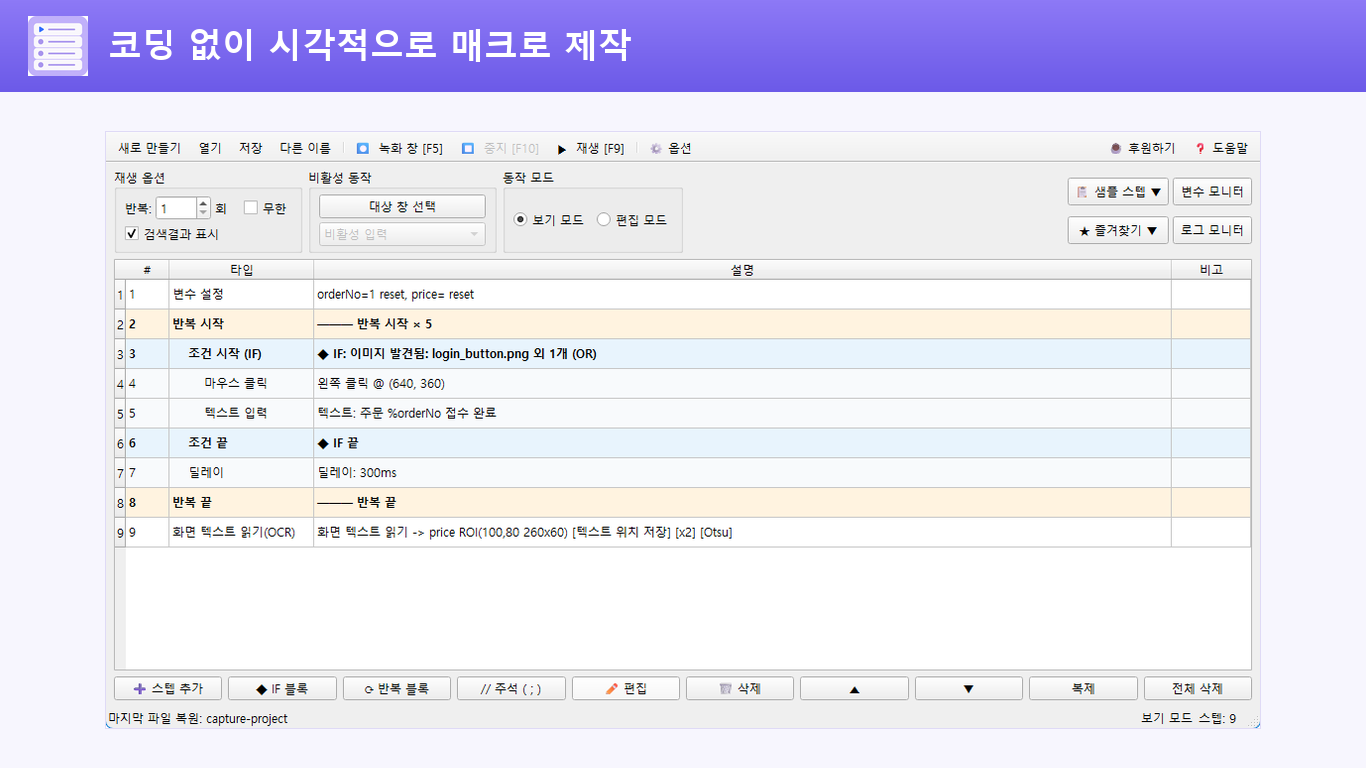
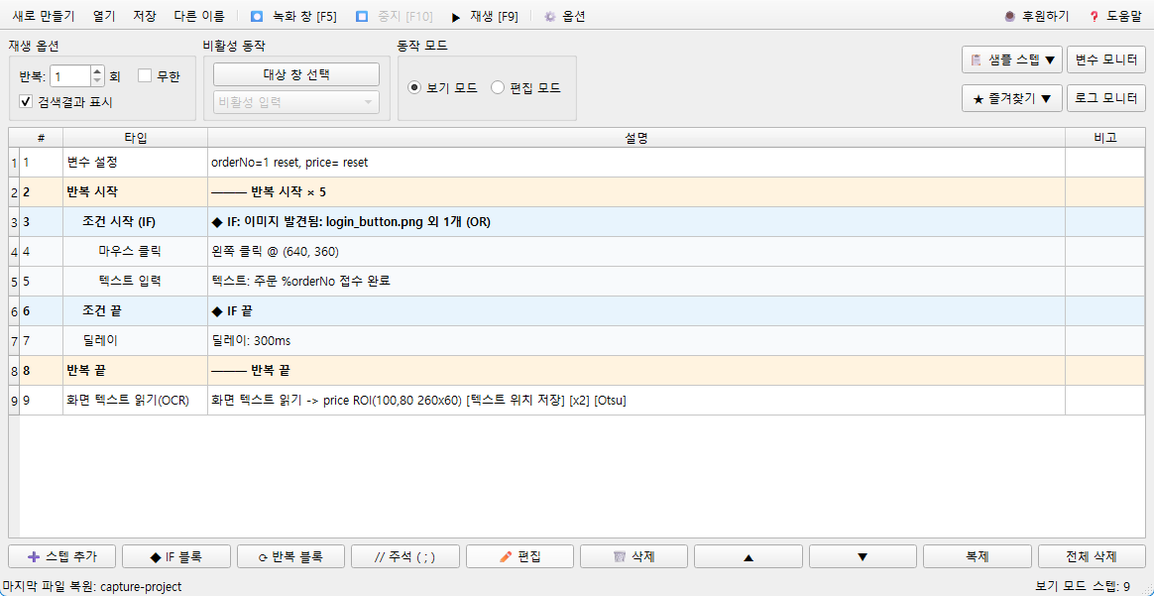
chore: 제품 이미지 배경 통일, 호버 확대, 클릭 라이트박스 및 최신 이미지 반영

diff --git a/index.html b/index.html
@@ -1,4 +1,4 @@
-<!DOCTYPE html><html lang="ko"><head><meta charset="utf-8"><meta http-equiv="Content-Security-Policy" content="default-src 'none'; base-uri 'none'; connect-src 'none'; font-src 'self'; form-action 'none'; frame-src 'none'; img-src 'self' data:; manifest-src 'none'; media-src 'none'; object-src 'none'; script-src 'self' 'sha256-U2uA9hgB6peaBaq9o5SVGQH00iSCfB1BbSsfk6xpqGo='; script-src-attr 'none'; style-src 'self'; style-src-attr 'none'; worker-src 'none'"><meta name="referrer" content="no-referrer"><meta name="google-site-verification" content="OwG5LbzGDYkvqDulqCkbK-_Yn-M28l3_QhQ-glExRZk"><meta name="google-adsense-account" content="ca-pub-2244929162842411"><meta name="viewport" content="width=device-width, initial-scale=1"><meta name="theme-color" id="themeColor" data-theme-light="#faf9f6" data-theme-dark="#181a19" content="#faf9f6"><title>PLCManJP | 현장 엔지니어를 위한 PLC와 자동화 도구</title><meta name="description" content="PLC 점검, 반복 업무 자동화, CAD 라벨 제작, 프로젝트 변환 검토와 현장 계산 도구, 개발자용 공개 소스를 소개합니다."><meta property="og:site_name" content="PLCManJP"><meta property="og:locale" content="ko_KR"><meta property="og:title" content="PLCManJP | 현장 엔지니어를 위한 PLC와 자동화 도구"><meta property="og:description" content="PLC 점검부터 자동화, CAD 라벨 제작과 현장 계산까지. 공개 앱과 웹 도구, 개발자용 자료를 한곳에서 찾아보세요."><meta property="og:type" content="website"><meta property="og:url" content="https://plcmanjp.github.io/"><meta property="og:image" content="https://plcmanjp.github.io/assets/og-home.png"><meta property="og:image:width" content="1200"><meta property="og:image:height" content="630"><meta property="og:image:alt" content="PLCManJP 현장 엔지니어용 실용 도구"><meta name="twitter:card" content="summary_large_image"><link rel="canonical" href="https://plcmanjp.github.io/"><link rel="icon" href="/favicon.svg" type="image/svg+xml"><link rel="icon" href="/favicon-32.png" sizes="32x32" type="image/png"><link rel="apple-touch-icon" href="/apple-touch-icon.png"><script src="/assets/theme-init.js"></script><link rel="stylesheet" href="/assets/home-base.css?v=6f22a1bbef9d"><link rel="stylesheet" href="/assets/home-sections.css?v=3b024eaeb08e"></head>
+<!DOCTYPE html><html lang="ko"><head><meta charset="utf-8"><meta http-equiv="Content-Security-Policy" content="default-src 'none'; base-uri 'none'; connect-src 'none'; font-src 'self'; form-action 'none'; frame-src 'none'; img-src 'self' data:; manifest-src 'none'; media-src 'none'; object-src 'none'; script-src 'self' 'sha256-U2uA9hgB6peaBaq9o5SVGQH00iSCfB1BbSsfk6xpqGo='; script-src-attr 'none'; style-src 'self'; style-src-attr 'none'; worker-src 'none'"><meta name="referrer" content="no-referrer"><meta name="google-site-verification" content="OwG5LbzGDYkvqDulqCkbK-_Yn-M28l3_QhQ-glExRZk"><meta name="google-adsense-account" content="ca-pub-2244929162842411"><meta name="viewport" content="width=device-width, initial-scale=1"><meta name="theme-color" id="themeColor" data-theme-light="#faf9f6" data-theme-dark="#181a19" content="#faf9f6"><title>PLCManJP | 현장 엔지니어를 위한 PLC와 자동화 도구</title><meta name="description" content="PLC 점검, 반복 업무 자동화, CAD 라벨 제작, 프로젝트 변환 검토와 현장 계산 도구, 개발자용 공개 소스를 소개합니다."><meta property="og:site_name" content="PLCManJP"><meta property="og:locale" content="ko_KR"><meta property="og:title" content="PLCManJP | 현장 엔지니어를 위한 PLC와 자동화 도구"><meta property="og:description" content="PLC 점검부터 자동화, CAD 라벨 제작과 현장 계산까지. 공개 앱과 웹 도구, 개발자용 자료를 한곳에서 찾아보세요."><meta property="og:type" content="website"><meta property="og:url" content="https://plcmanjp.github.io/"><meta property="og:image" content="https://plcmanjp.github.io/assets/og-home.png"><meta property="og:image:width" content="1200"><meta property="og:image:height" content="630"><meta property="og:image:alt" content="PLCManJP 현장 엔지니어용 실용 도구"><meta name="twitter:card" content="summary_large_image"><link rel="canonical" href="https://plcmanjp.github.io/"><link rel="icon" href="/favicon.svg" type="image/svg+xml"><link rel="icon" href="/favicon-32.png" sizes="32x32" type="image/png"><link rel="apple-touch-icon" href="/apple-touch-icon.png"><script src="/assets/theme-init.js"></script><link rel="stylesheet" href="/assets/home-base.css?v=6f22a1bbef9d"><link rel="stylesheet" href="/assets/home-sections.css?v=ca56ba8eaeed"></head>
 <body>
 <a class="skip-link" href="#main-content">본문으로 바로가기</a>
 <header class="site-header">
@@ -39,7 +39,9 @@
           <div class="actions"><a class="button" href="https://play.google.com/store/apps/details?id=com.plciocheck.iocheck">Google Play 설치 <span aria-hidden="true">↗</span></a><a class="text-link" href="/plc-io-check-helper/">제품 안내 <span aria-hidden="true">→</span></a></div>
         </div>
         <figure class="product-visual plc-visual">
-          <img class="phone-screen" src="/assets/product-cards/plc-io-check-helper/app-iocheck.png" alt="PLC 업무수첩 실제 IO 체크 화면: 디바이스 주소별 점검 상태와 결과" width="1080" height="2090" fetchpriority="high" decoding="async">
+          <button type="button" class="visual-trigger" data-zoom-src="/assets/product-cards/plc-io-check-helper/app-iocheck.png" data-zoom-caption="PLC 업무수첩의 IO 체크 화면" aria-label="PLC 업무수첩의 IO 체크 화면 크게 보기">
+            <img class="phone-screen" src="/assets/product-cards/plc-io-check-helper/app-iocheck.png" alt="PLC 업무수첩 실제 IO 체크 화면: 디바이스 주소별 점검 상태와 결과" width="1080" height="2090" fetchpriority="high" decoding="async">
+          </button>
           <figcaption>PLC 업무수첩의 IO 체크 화면</figcaption>
         </figure>
       </div>
@@ -55,7 +57,7 @@
           <ul class="feature-list"><li>동작 녹화와 스텝 편집</li><li>조건, 반복, 변수와 포인터</li><li>이미지 검색, OCR, 백그라운드 입력</li></ul>
           <div class="actions"><a class="button" href="https://apps.microsoft.com/detail/9NXX9L2ZW52W">Microsoft Store 설치 <span aria-hidden="true">↗</span></a><a class="text-link" href="/codeless-macro-tool/">제품 안내 <span aria-hidden="true">→</span></a></div>
         </div>
-        <figure class="product-visual macro-visual"><img src="/assets/product-cards/codeless-macro-tool/app-screen-overview.png" alt="Codeless Macro Tool 실제 스텝 편집 화면" width="1366" height="768" loading="lazy" decoding="async"><figcaption>Codeless Macro Tool의 스텝 편집 화면</figcaption></figure>
+        <figure class="product-visual macro-visual"><button type="button" class="visual-trigger" data-zoom-src="/assets/product-cards/codeless-macro-tool/app-screen-overview.png" data-zoom-caption="Codeless Macro Tool의 스텝 편집 화면" aria-label="Codeless Macro Tool의 스텝 편집 화면 크게 보기"><img src="/assets/product-cards/codeless-macro-tool/app-screen-overview.png" alt="Codeless Macro Tool 실제 스텝 편집 화면" width="1154" height="596" loading="lazy" decoding="async"></button><figcaption>Codeless Macro Tool의 스텝 편집 화면</figcaption></figure>
       </div>
     </article>
 
@@ -69,7 +71,7 @@
           <ul class="feature-list"><li>RSS, Atom과 HTML 페이지 수집</li><li>검색, 읽음, 즐겨찾기와 다이제스트</li><li>선택형 Discord 전송과 로컬 우선 저장</li></ul>
           <div class="actions"><a class="button" href="https://play.google.com/store/apps/details?id=com.plcmanjp.feedgrove">Google Play 설치 <span aria-hidden="true">↗</span></a><a class="text-link" href="/feedgrove/">제품 안내 <span aria-hidden="true">→</span></a></div>
         </div>
-        <figure class="product-visual feed-visual"><img class="phone-screen" src="/assets/product-cards/feedgrove/screen-home-card.png" alt="FeedGrove 실제 피드 홈 화면: 모아둔 피드와 읽을거리 목록" width="1080" height="2400" loading="lazy" decoding="async"><figcaption>FeedGrove의 피드 홈 화면</figcaption></figure>
+        <figure class="product-visual feed-visual"><button type="button" class="visual-trigger" data-zoom-src="/assets/product-cards/feedgrove/screen-home-card.png" data-zoom-caption="FeedGrove의 피드 홈 화면" aria-label="FeedGrove의 피드 홈 화면 크게 보기"><img class="phone-screen" src="/assets/product-cards/feedgrove/screen-home-card.png" alt="FeedGrove 실제 피드 홈 화면: 모아둔 피드와 읽을거리 목록" width="1080" height="1920" loading="lazy" decoding="async"></button><figcaption>FeedGrove의 피드 홈 화면</figcaption></figure>
       </div>
     </article>
   </section>
@@ -143,5 +145,7 @@
   <nav class="footer-links" aria-label="정책 링크"><h2>개인정보처리방침</h2><a href="/plc-io-check-helper/privacy/">PLC 업무수첩</a><a href="/codeless-macro-tool/privacy/">Codeless Macro Tool</a><a href="/feedgrove/privacy/">FeedGrove</a><p>저장 위치와 외부 전송 여부는<br>제품별 정책에서 확인하세요.</p></nav>
 </div><div class="shell footer-bottom"><p>PLCManJP는 Mitsubishi Electric과 무관한 독립 개발 프로젝트입니다.<br>MELSEC과 MELSERVO는 Mitsubishi Electric Corporation의 상표입니다.</p><a href="#main-content">맨 위로 <span aria-hidden="true">↑</span></a></div></footer>
 <script type="application/ld+json">{"@context":"https://schema.org","@graph":[{"@type":"WebSite","@id":"https://plcmanjp.github.io/#website","url":"https://plcmanjp.github.io/","name":"PLCManJP","description":"PLC 점검, 자동화, CAD 라벨 제작과 현장 계산 도구, 개발자용 공개 소스","inLanguage":"ko","publisher":{"@type":"Person","name":"PLCManJP","url":"https://plcmanjp.github.io/"}},{"@type":"ItemList","name":"PLCManJP 제품과 도구","itemListElement":[{"@type":"ListItem","position":1,"item":{"@type":"SoftwareApplication","name":"PLC 업무수첩","url":"https://plcmanjp.github.io/plc-io-check-helper/","applicationCategory":"UtilitiesApplication","operatingSystem":"Android 8.0+","installUrl":"https://play.google.com/store/apps/details?id=com.plciocheck.iocheck","offers":{"@type":"Offer","price":"0","priceCurrency":"KRW"}}},{"@type":"ListItem","position":2,"item":{"@type":"SoftwareApplication","name":"JP's Codeless Macro Tool","url":"https://plcmanjp.github.io/codeless-macro-tool/","applicationCategory":"UtilitiesApplication","operatingSystem":"Windows 10 1809+ x64","installUrl":"https://apps.microsoft.com/detail/9NXX9L2ZW52W","offers":{"@type":"Offer","price":"0","priceCurrency":"KRW"}}},{"@type":"ListItem","position":3,"item":{"@type":"SoftwareApplication","name":"FeedGrove","url":"https://plcmanjp.github.io/feedgrove/","applicationCategory":"UtilitiesApplication","operatingSystem":"Android 8.0+","installUrl":"https://play.google.com/store/apps/details?id=com.plcmanjp.feedgrove","offers":{"@type":"Offer","price":"0","priceCurrency":"KRW"}}},{"@type":"ListItem","position":4,"item":{"@type":"WebApplication","name":"엔지니어 도구","url":"https://plcmanjp.github.io/engineer-tool/","applicationCategory":"UtilitiesApplication","browserRequirements":"설치 불필요, 브라우저에서 동작","offers":{"@type":"Offer","price":"0","priceCurrency":"KRW"}}},{"@type":"ListItem","position":5,"item":{"@type":"WebApplication","name":"Ladder Quest","url":"https://plcmanjp.github.io/ladder-quest/","applicationCategory":"GameApplication","browserRequirements":"설치 불필요, 브라우저에서 동작","offers":{"@type":"Offer","price":"0","priceCurrency":"KRW"}}},{"@type":"ListItem","position":6,"item":{"@type":"WebApplication","name":"AI 웹소설 연재관","url":"https://plcmanjp.github.io/novel/","applicationCategory":"EntertainmentApplication","browserRequirements":"설치 불필요, 브라우저에서 동작"}},{"@type":"ListItem","position":7,"item":{"@type":"SoftwareApplication","name":"Excel CAD Label Maker","url":"https://github.com/plcmanjp/excel-cad-label-maker","operatingSystem":"Windows","applicationCategory":"UtilitiesApplication","downloadUrl":"https://github.com/plcmanjp/excel-cad-label-maker/releases/latest"}},{"@type":"ListItem","position":8,"item":{"@type":"SoftwareApplication","name":"Q-FX Converter","url":"https://github.com/plcmanjp/fx5-q-converter","operatingSystem":"Windows","applicationCategory":"UtilitiesApplication","downloadUrl":"https://github.com/plcmanjp/fx5-q-converter/releases/latest"}},{"@type":"ListItem","position":9,"item":{"@type":"SoftwareSourceCode","name":"GX Project Toolkit","url":"https://github.com/plcmanjp/gx-project-toolkit","codeRepository":"https://github.com/plcmanjp/gx-project-toolkit","programmingLanguage":"Python"}},{"@type":"ListItem","position":10,"item":{"@type":"SoftwareSourceCode","name":"MELSEC MC Kotlin","url":"https://github.com/plcmanjp/melsec-mc-kotlin","codeRepository":"https://github.com/plcmanjp/melsec-mc-kotlin","programmingLanguage":"Kotlin"}}]}]}</script>
+<dialog class="image-lightbox" id="imageLightbox" aria-labelledby="lightboxCaption"><div class="lightbox-bar"><p class="lightbox-caption" id="lightboxCaption"></p><button class="lightbox-close" id="lightboxClose" type="button" aria-label="확대 이미지 닫기">닫기</button></div><div class="lightbox-stage"><img class="lightbox-image" id="lightboxImage" alt=""></div></dialog>
 <script src="/assets/theme.js"></script>
+<script src="/assets/home-zoom.js"></script>
 </body></html>

diff --git a/assets/home-sections.css b/assets/home-sections.css
@@ -1,8 +1,8 @@
 /* Editorial product bands and scannable utility directories. */
 .products-section > .section-heading { margin-bottom: 28px; align-items: center; flex-direction: row; }
 .products-section > .section-heading h2 { font-size: 22px; letter-spacing: -.035em; }
-.product-feature { padding-block: 64px; }
-.feature-layout { display: grid; grid-template-columns: 1fr 1.08fr; align-items: center; gap: 90px; }
+.product-feature { padding-block: 0; }
+.feature-layout { display: grid; grid-template-columns: 1fr 1.08fr; align-items: center; gap: 90px; padding-block: 64px; border-top: 1px solid var(--line); }
 .feature-copy { padding-block: 16px; }
 .product-identity { display: flex; align-items: center; gap: 14px; margin-bottom: 22px; font-size: 12px; color: var(--muted); }
 .product-identity img { width: 44px; height: 44px; object-fit: contain; border-radius: 10px; }
@@ -14,16 +14,32 @@
 .feature-list li::before { content: ""; position: absolute; width: 3px; height: 3px; left: 0; top: .86em; background: currentColor; border-radius: 50%; }
 .feature-copy .actions { margin-top: 28px; }
 .product-visual { display: flex; flex-direction: column; align-items: center; justify-content: center; min-width: 0; }
-.product-visual > img { box-shadow: 0 16px 38px #17251b14; border: 1px solid #20232126; border-radius: 12px; }
-.product-visual .phone-screen { width: 260px; max-width: 100%; }
+.visual-trigger { display: block; padding: 0; border: 0; background: transparent; color: inherit; cursor: zoom-in; max-width: 100%; border-radius: 12px; }
+.visual-trigger > img { box-shadow: 0 16px 38px #17251b14; border: 1px solid var(--line); border-radius: 12px; transition: transform .22s ease, box-shadow .22s ease; }
+:root[data-theme="dark"] .visual-trigger > img { box-shadow: 0 18px 42px #0006; }
+.visual-trigger .phone-screen { width: 260px; max-width: 100%; }
 .product-visual figcaption { color: var(--muted); margin-top: 20px; font-size: 11px; text-align: center; }
-.feature-plc { background: var(--plc); }
-.feature-macro { background: #242a27; color: #f6f7f1; --muted: #bec8bf; --ink: #f6f7f1; --paper: #242a27; --focus: #ffc29f; --accent: #f5b18d; }
-.feature-macro .feature-layout { grid-template-columns: .92fr 1.28fr; gap: 56px; min-height: 490px; }
-.feature-macro .button:hover { background: #f5b18d; color: #242a27; }
-.macro-visual > img { border-radius: 8px; width: 100%; box-shadow: 0 20px 46px #0003; }
-.feature-feed { background: var(--feed); }
+.feature-macro .feature-layout { grid-template-columns: .92fr 1.28fr; gap: 56px; min-height: 580px; }
+.macro-visual .visual-trigger { width: 100%; border-radius: 8px; }
+.macro-visual .visual-trigger > img { border-radius: 8px; width: 100%; box-shadow: 0 20px 46px #0003; }
+:root[data-theme="dark"] .macro-visual .visual-trigger > img { box-shadow: 0 20px 48px #0007; }
 .feed-visual .phone-screen { width: 238px; }
+@media (hover: hover) and (pointer: fine) {
+  .visual-trigger:hover > img,
+  .visual-trigger:focus-visible > img { transform: scale(1.03); box-shadow: 0 22px 48px #17251b22; }
+  :root[data-theme="dark"] .visual-trigger:hover > img,
+  :root[data-theme="dark"] .visual-trigger:focus-visible > img { box-shadow: 0 24px 54px #0009; }
+}
+.image-lightbox { width: fit-content; min-width: min(300px, 94vw); max-width: min(94vw, 1180px); max-height: 94vh; margin: auto; padding: 0; border: 1px solid var(--line); border-radius: 16px; background: var(--surface); color: var(--ink); box-shadow: 0 28px 80px #0005; overflow: hidden; }
+.image-lightbox[open] { display: flex; flex-direction: column; }
+.image-lightbox::backdrop { background: rgba(18, 20, 19, .76); }
+.lightbox-bar { display: flex; align-items: center; justify-content: space-between; gap: 16px; padding: 12px 16px 12px 20px; border-bottom: 1px solid var(--line); background: var(--surface); }
+.lightbox-caption { font-size: 13px; font-weight: 600; color: var(--ink); min-width: 0; }
+.lightbox-close { flex-shrink: 0; min-width: 44px; min-height: 44px; padding: 8px 16px; border: 1px solid var(--line); border-radius: 999px; background: transparent; color: var(--ink); font-size: 13px; font-weight: 650; cursor: pointer; }
+.lightbox-close:hover { background: var(--soft); border-color: var(--ink); }
+.lightbox-close:focus-visible { outline-offset: 2px; }
+.lightbox-stage { flex: 1 1 auto; min-height: 0; display: flex; align-items: center; justify-content: center; padding: 20px; background: var(--paper); overflow: auto; }
+.lightbox-image { display: block; width: auto; height: auto; max-width: 100%; max-height: calc(94vh - 114px); border: 1px solid var(--line); border-radius: 10px; object-fit: contain; }
 .resource-list { border-top: 1px solid var(--line); }
 .resource-row { display: grid; grid-template-columns: 1fr 1.5fr .78fr; gap: 40px; padding-block: 34px; border-bottom: 1px solid var(--line); }
 .resource-type { display: block; color: var(--muted); font-size: 11px; margin-bottom: 10px; }
@@ -93,8 +109,7 @@
   .products-section > .section-heading { align-items: start; gap: 20px; margin-bottom: 22px; }
   .products-section > .section-heading h2 { max-width: 200px; font-size: 19px; }
   .section-index { padding-top: 4px; }
-  .product-feature { padding-block: 42px; }
-  .feature-layout { grid-template-columns: 1fr; gap: 32px; }
+  .feature-layout { grid-template-columns: 1fr; gap: 32px; padding-block: 42px; }
   .feature-copy { padding-block: 0; }
   .product-identity { margin-bottom: 20px; }
   .product-identity img { width: 40px; height: 40px; }
@@ -108,7 +123,12 @@
   .product-visual figcaption { font-size: 10px; margin-top: 16px; }
   .feed-visual .phone-screen { width: 216px; }
   .feature-macro .feature-layout { min-height: 0; gap: 22px; }
-  .macro-visual > img { border-radius: 4px; }
+  .macro-visual .visual-trigger, .macro-visual .visual-trigger > img { border-radius: 4px; }
+  .image-lightbox { width: calc(100vw - 24px); max-width: calc(100vw - 24px); max-height: 90vh; border-radius: 12px; }
+  .lightbox-bar { padding: 10px 12px 10px 16px; }
+  .lightbox-caption { font-size: 12px; }
+  .lightbox-stage { padding: 12px; }
+  .lightbox-image { max-height: calc(90vh - 96px); }
   .resource-row { grid-template-columns: 1fr; gap: 20px; padding-block: 28px; }
   .resource-title h3 { font-size: 21px; }
   .resource-actions { grid-column: 1; gap: 10px 24px; margin-top: -6px; }
@@ -130,4 +150,7 @@
   .contact-layout { flex-direction: column; align-items: start; gap: 30px; }
   .contact-layout h2 { font-size: 28px; }
   .contact-actions { gap: 10px; }
+}
+@media (prefers-reduced-motion: reduce) {
+  .visual-trigger > img { transition: none; }
 }

diff --git a/assets/home-zoom.js b/assets/home-zoom.js
@@ -1,0 +1,72 @@
+/* 제품 화면 이미지 확대 보기 — 메인 허브 전용. */
+(function () {
+  var dialog = document.getElementById("imageLightbox");
+  var image = document.getElementById("lightboxImage");
+  var caption = document.getElementById("lightboxCaption");
+  var closeButton = document.getElementById("lightboxClose");
+  var triggers = document.querySelectorAll(".visual-trigger[data-zoom-src]");
+  var opener = null;
+
+  if (!dialog || !image || !caption || !closeButton || !triggers.length) {
+    return;
+  }
+
+  function cleanup() {
+    image.removeAttribute("src");
+    image.alt = "";
+    caption.textContent = "";
+    if (opener && opener.isConnected) {
+      opener.focus();
+    }
+    opener = null;
+  }
+
+  function closeLightbox() {
+    if (typeof dialog.close === "function") {
+      if (dialog.open) {
+        dialog.close();
+      }
+    } else {
+      dialog.removeAttribute("open");
+      cleanup();
+    }
+  }
+
+  function openLightbox(trigger) {
+    var src = trigger.getAttribute("data-zoom-src");
+    if (!src) {
+      return;
+    }
+    var thumb = trigger.querySelector("img");
+    opener = trigger;
+    image.src = src;
+    image.alt = thumb ? thumb.alt : "";
+    caption.textContent = trigger.getAttribute("data-zoom-caption") || "";
+    if (typeof dialog.showModal === "function") {
+      dialog.showModal();
+    } else {
+      dialog.setAttribute("open", "");
+    }
+    closeButton.focus();
+  }
+
+  triggers.forEach(function (trigger) {
+    trigger.addEventListener("click", function () {
+      openLightbox(trigger);
+    });
+  });
+
+  closeButton.addEventListener("click", closeLightbox);
+  dialog.addEventListener("close", cleanup);
+  dialog.addEventListener("click", function (event) {
+    if (event.target !== dialog || event.detail === 0) {
+      return;
+    }
+    var bounds = dialog.getBoundingClientRect();
+    var outside = event.clientX < bounds.left || event.clientX > bounds.right ||
+      event.clientY < bounds.top || event.clientY > bounds.bottom;
+    if (outside) {
+      closeLightbox();
+    }
+  });
+}());
